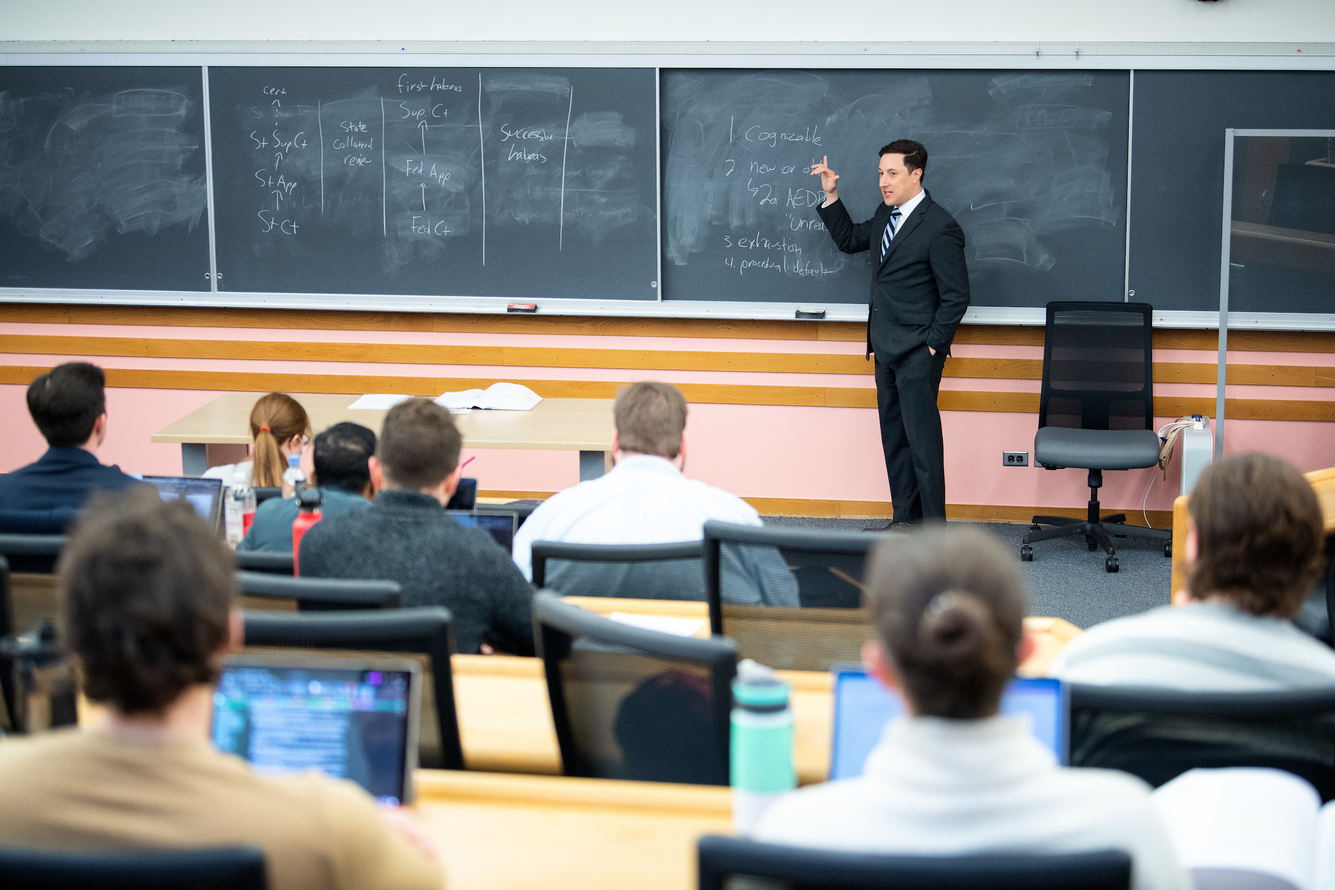
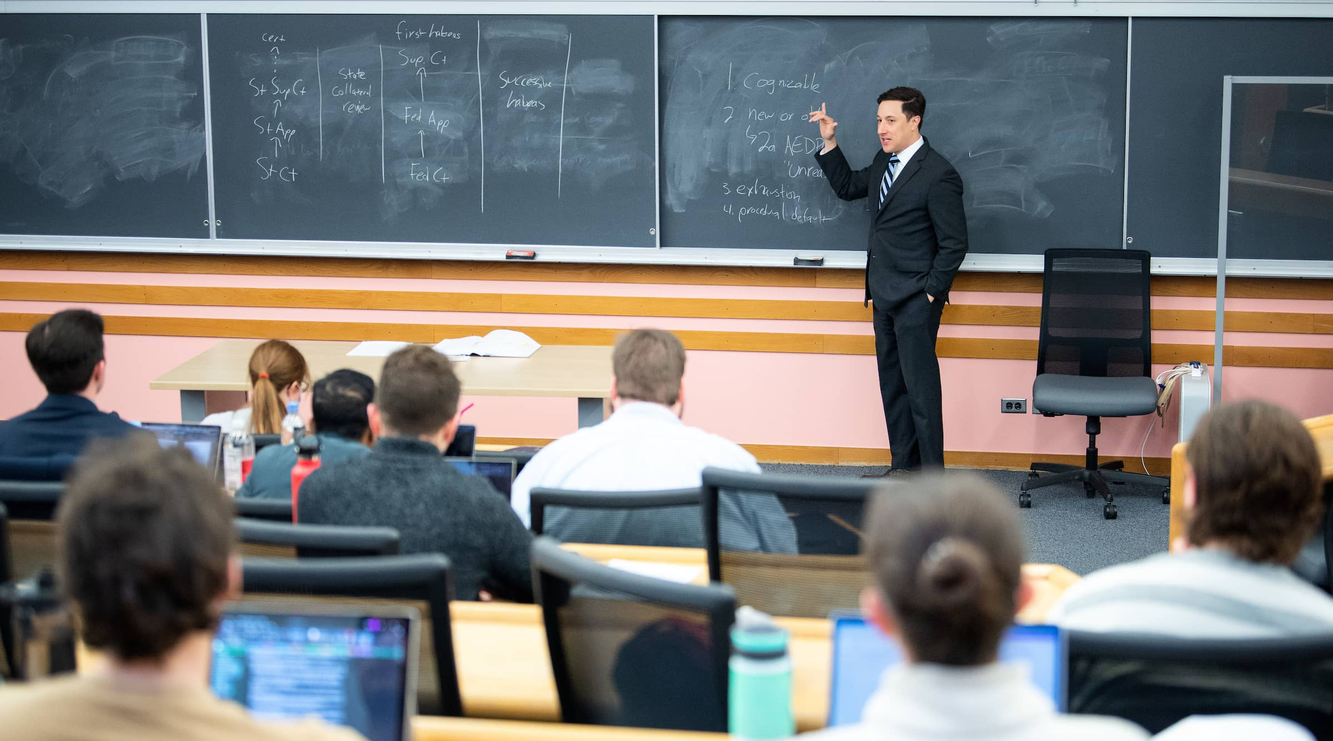
Adjusted some photo heights, CSS, and decreased headline size to accomodate height differences between text and photos.

diff --git a/src/App.vue b/src/App.vue
@@ -499,7 +499,7 @@ $imgpath: '../node_modules/@uiowa/uids/src/assets/images';
 
 @media (max-width: 110.688em) and (min-width: 93.75em) {
   .grid-panel__content .headline--uppercase {
-    font-size: calc(3em + .9vw) !important;
+    font-size: calc(2.5em + .9vw) !important;
   }
 }
 
@@ -596,20 +596,20 @@ $imgpath: '../node_modules/@uiowa/uids/src/assets/images';
     flex-basis: 0%;
   }
 }
-  .grid--fourcol--25 {
-    .list-container {
-      display: grid;
-      grid-template-rows: auto;
-      grid-template-columns: 1fr;
-      @include breakpoint(md) {
-        gap: $desktop-width-gutter;
-        grid-template-columns: repeat(auto-fill, minmax(21%, 1fr));
-      }
-      @media (min-width: 992px) {
-        gap: 0px;
-      }
+
+.grid--fourcol--25 {
+  .list-container {
+    display: grid;
+    grid-template-rows: auto;
+    grid-template-columns: 1fr;
+    gap: 0;
+    @include breakpoint(sm) {
+      grid-template-columns: repeat(auto-fill, minmax(46.7%, 1fr));
+    }
+    @include breakpoint(container) {
+      grid-template-columns: repeat(auto-fill, minmax(21%, 1fr));
     }
   }
-
+}
 
 </style>
